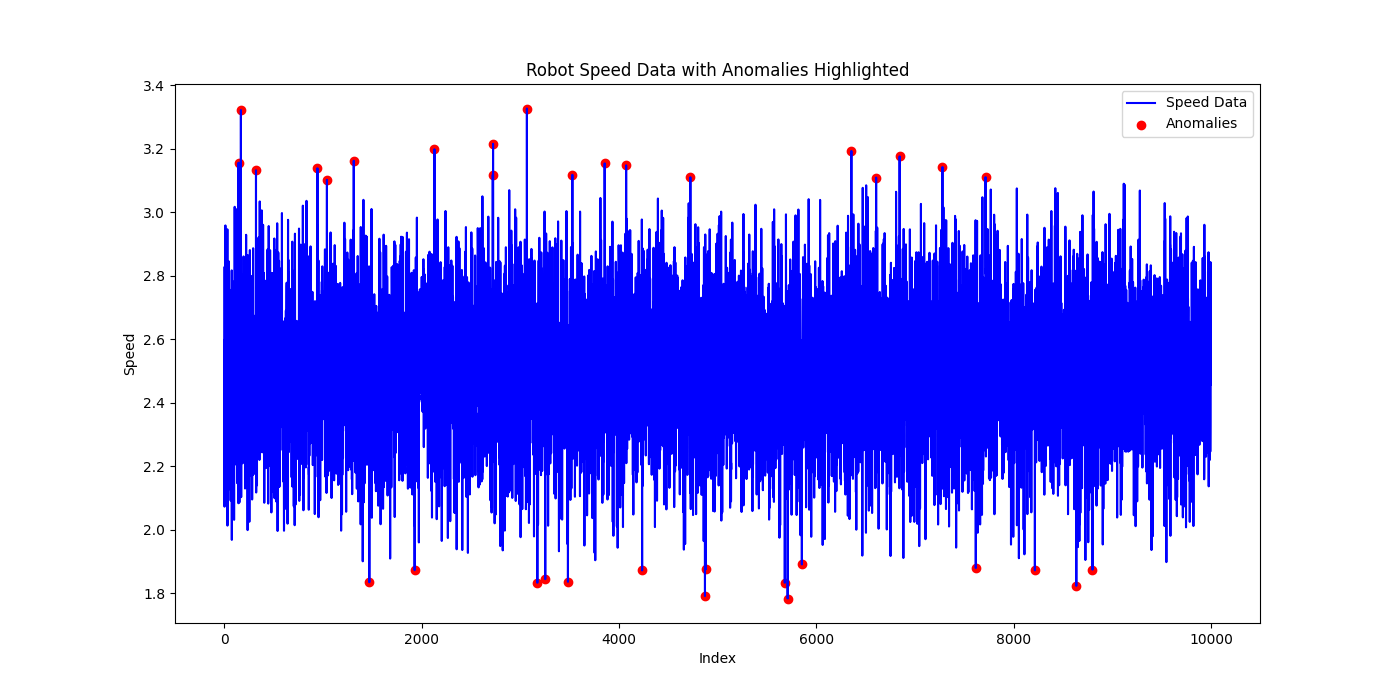
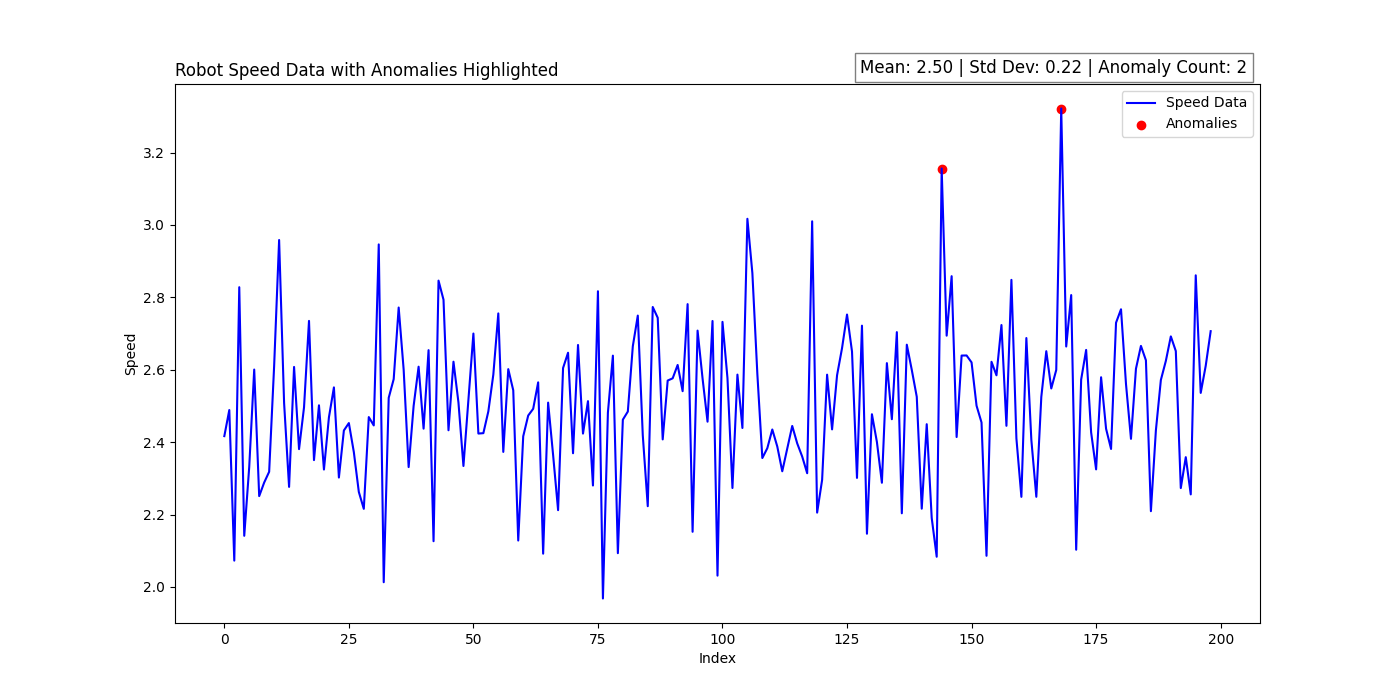
adding mean, std and anomaly_count to the graph.

diff --git a/timeSeriesDataset.py b/timeSeriesDataset.py
@@ -4,7 +4,7 @@ from io import StringIO
 import matplotlib.pyplot as plt
 
 
-def receive_data_in_chunks(desiredChunkSize=10000):
+def receive_data_in_chunks(desiredChunkSize=200):
     """Simulates a stream of continuous data"""
 
     chunk = []
@@ -43,19 +43,27 @@ def detect_anomalies_zscore(data, threshold=3):
     return anomaly_df, mean, std
 
 
-def plot_data_with_anomalies(data):
-    """ Plotting the data and  highlighting the anomalies """
+def plot_data_with_anomalies(data, mean, std, anomaly_count):
+    """ Plotting the data and highlighting the anomalies with additional metrics """
 
     plt.figure(figsize=(14, 7))
-    plt.plot(dataFrame.index, anomaly_df['Data'], label='Speed Data', color='blue')
+    plt.plot(data.index, data['Data'], label='Speed Data', color='blue')
 
     # Highlight anomalies
-    plt.scatter(anomaly_df.index[anomaly_df['Anomaly']], 
-                anomaly_df['Data'][anomaly_df['Anomaly']], 
+    plt.scatter(data.index[data['Anomaly']], 
+                data['Data'][data['Anomaly']], 
                 color='red', label='Anomalies', marker='o')
 
+    # Add annotations for mean, std, and anomaly count
+    plt.text(0.81, 1.03, f"Mean: {mean:.2f} | Std Dev: {std:.2f} | Anomaly Count: {anomaly_count}", 
+             horizontalalignment='center', 
+             verticalalignment='center', 
+             transform=plt.gca().transAxes,
+             fontsize=12, 
+             bbox=dict(facecolor='white', alpha=0.5))
+
     # Adding labels and title
-    plt.title('Robot Speed Data with Anomalies Highlighted')
+    plt.title('Robot Speed Data with Anomalies Highlighted', loc='left')
     plt.xlabel('Index')
     plt.ylabel('Speed')
     plt.legend()
@@ -89,7 +97,6 @@ spd_std = anomalies_output[2]
 # 3. Metrics Reporting
 ##########################################
 
-plot_data_with_anomalies(anomaly_df)
 
 print(dataFrame)
 print(dataFrame.info())
@@ -100,6 +107,7 @@ print(f'anomaly count: {anomaly_count}')
 print(f'mean: {spd_mean}')
 print(f'std dev.: {spd_std}')
 
+plot_data_with_anomalies(anomaly_df, spd_mean, spd_std, anomaly_count)
 
 ##########################################
 # 4. Code Submission
